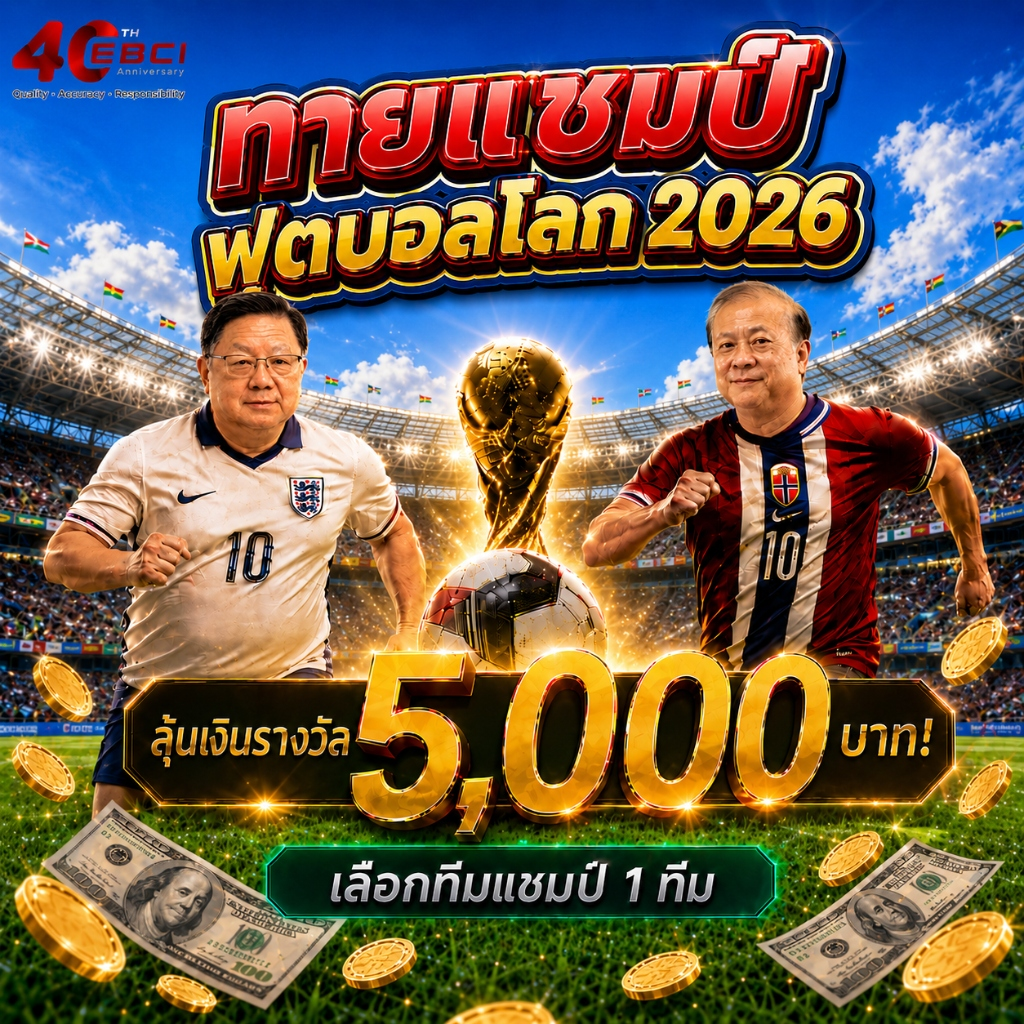
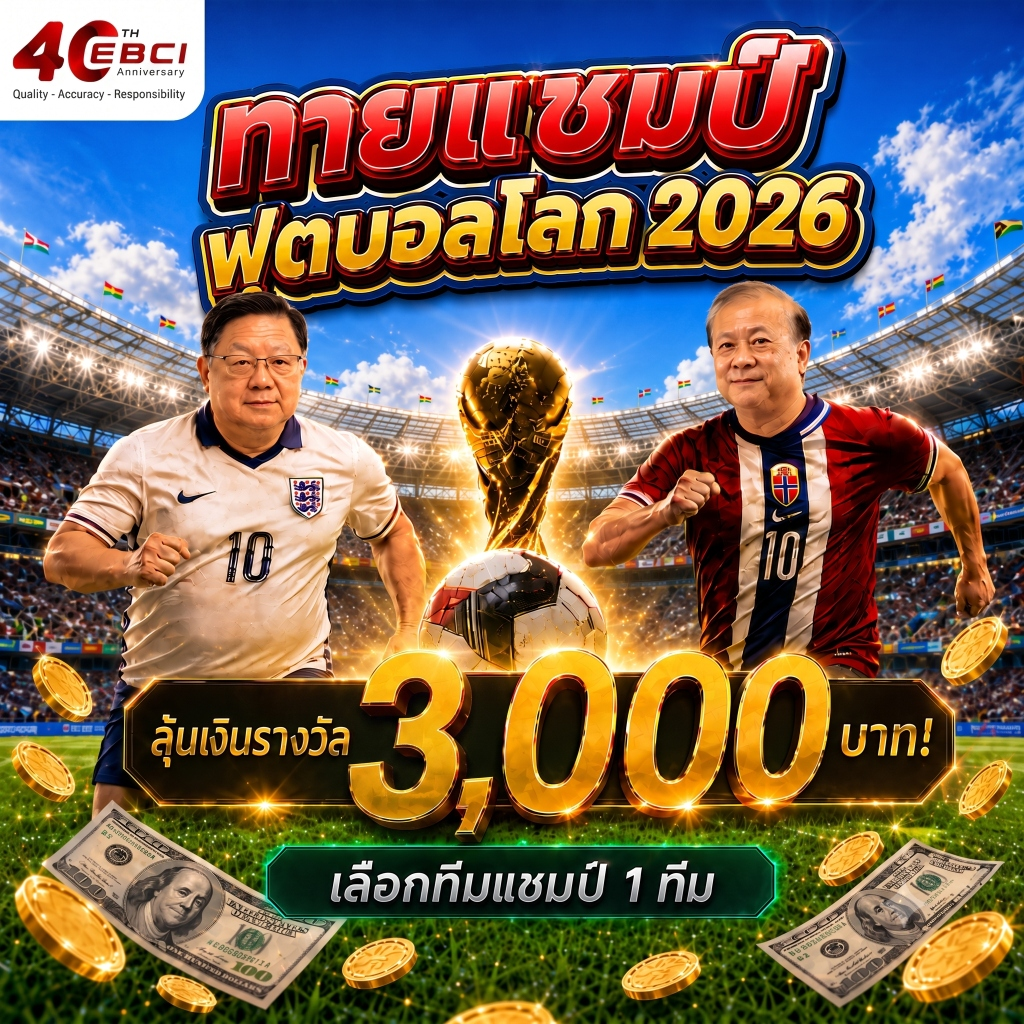
style(world-cup): replace KV image with 3000 prize version and reduce corner radius

diff --git a/src/app/portal/events/world-cup/world-cup-prediction-client.tsx b/src/app/portal/events/world-cup/world-cup-prediction-client.tsx
@@ -293,7 +293,7 @@ export function WorldCupPredictionClient({
         <div className="mx-auto w-full max-w-6xl pb-10">
             {/* KV Image above the card */}
             <div className="mb-8 flex justify-center">
-                <div className="w-full max-w-[480px] overflow-hidden rounded-[2.5rem] border border-white/15 bg-black/20 shadow-2xl">
+                <div className="w-full max-w-[480px] overflow-hidden rounded-[2.1rem] border border-white/15 bg-black/20 shadow-2xl">
                     {/* eslint-disable-next-line @next/next/no-img-element */}
                     <img src="/events/world-cup-kv.jpg" alt="EBCI World Cup KV" className="w-full h-auto object-cover" />
                 </div>
